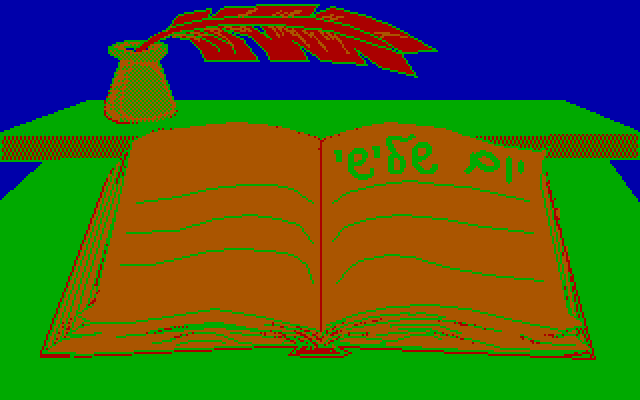
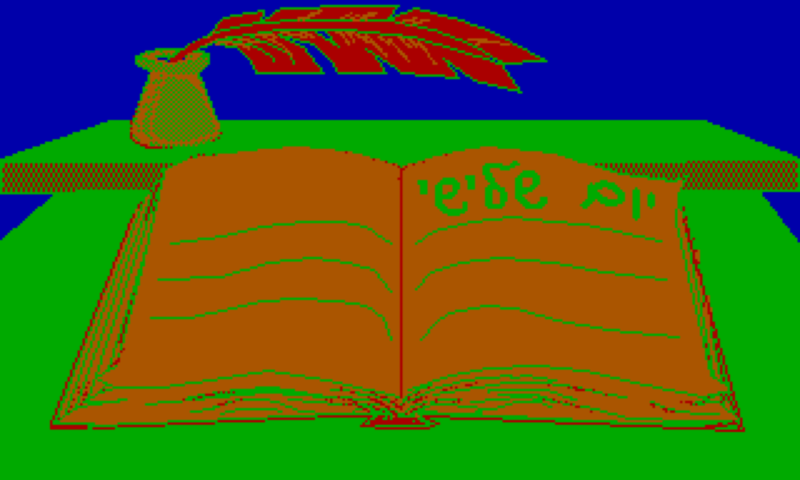
fixing the image sizes

diff --git a/SeaMerchantApp/src/com/example/seamerchant/SceneManager.java b/SeaMerchantApp/src/com/example/seamerchant/SceneManager.java
@@ -3,12 +3,15 @@ package com.example.seamerchant;
 import org.andengine.engine.Engine;
 import org.andengine.engine.handler.timer.ITimerCallback;
 import org.andengine.engine.handler.timer.TimerHandler;
+import org.andengine.entity.scene.IOnAreaTouchListener;
 import org.andengine.entity.scene.IOnSceneTouchListener;
+import org.andengine.entity.scene.ITouchArea;
 import org.andengine.entity.scene.Scene;
 import org.andengine.input.touch.TouchEvent;
 import org.andengine.input.touch.controller.BaseTouchController;
 import org.andengine.ui.activity.SimpleBaseGameActivity;
 
+import android.test.mock.MockApplication;
 import android.view.MotionEvent;
 
 import com.example.seamerchant.scene.Base;
@@ -122,6 +125,7 @@ public class SceneManager {
 		final Base op = new Options(mBaseActivity, mSideBanner, mLowerBanner);
 		op.loadResourcesAndScene();
 		mEngine.setScene(op.getScene());
+		
 	}
 
 	private void startWeatherScene() {
@@ -160,7 +164,7 @@ public class SceneManager {
 	}
 
 	private void startNewDayScene() {
-		final Base nd = new NewDay(mBaseActivity);
+		final Base nd = new NewDay(mBaseActivity,2);
 		nd.loadResourcesAndScene();
 		mEngine.setScene(nd.getScene());
 		Scene curr = nd.getScene();
@@ -233,4 +237,5 @@ public class SceneManager {
 	public void loadRecources() {
 		mWelcomeGameScene.loadResources();
 	}
+
 }

diff --git a/SeaMerchantApp/src/com/example/seamerchant/game/Player.java b/SeaMerchantApp/src/com/example/seamerchant/game/Player.java
@@ -5,9 +5,9 @@ public class Player {
 	private int location;
 	private int money;
 	private int guard;
-	private Item item1;
-	private Item item2;
-	private Item item3;
+	private Item wheat;
+	private Item olives;
+	private Item bronze;
 	public Player(int ship, int location) {
 		super();
 		this.ship = ship;
@@ -37,23 +37,23 @@ public class Player {
 	public void setGuard(int guard) {
 		this.guard = guard;
 	}
-	public Item getItem1() {
-		return item1;
+	public Item getWheat() {
+		return wheat;
 	}
 	public void setItem1(Item item1) {
-		this.item1 = item1;
+		this.wheat = item1;
 	}
 	public Item getItem2() {
-		return item2;
+		return olives;
 	}
 	public void setItem2(Item item2) {
-		this.item2 = item2;
+		this.olives = item2;
 	}
 	public Item getItem3() {
-		return item3;
+		return bronze;
 	}
 	public void setItem3(Item item3) {
-		this.item3 = item3;
+		this.bronze = item3;
 	}
 	
 	

diff --git a/SeaMerchantApp/src/com/example/seamerchant/scene/Options.java b/SeaMerchantApp/src/com/example/seamerchant/scene/Options.java
@@ -3,10 +3,13 @@ package com.example.seamerchant.scene;
 import java.io.IOException;
 import java.io.InputStream;
 
+import org.andengine.entity.scene.IOnAreaTouchListener;
+import org.andengine.entity.scene.ITouchArea;
 import org.andengine.entity.scene.Scene;
 import org.andengine.entity.sprite.ButtonSprite;
 import org.andengine.entity.sprite.ButtonSprite.OnClickListener;
 import org.andengine.entity.sprite.Sprite;
+import org.andengine.input.touch.TouchEvent;
 import org.andengine.opengl.texture.ITexture;
 import org.andengine.opengl.texture.TextureOptions;
 import org.andengine.opengl.texture.atlas.bitmap.BitmapTextureAtlas;

diff --git a/SeaMerchantApp/src/com/example/seamerchant/scene/Splash.java b/SeaMerchantApp/src/com/example/seamerchant/scene/Splash.java
@@ -20,7 +20,7 @@ abstract public class Splash extends Base {
 
 	protected TextureRegion mSplashTextureRegion;
 
-	abstract String getSplashFile();
+	abstract String getSplashFile(String param);
 	
 	@Override
 	protected Scene initScene()
@@ -39,7 +39,7 @@ abstract public class Splash extends Base {
 			ITexture backgroundTexture = new BitmapTexture(getTextureManager(), new IInputStreamOpener() {
 			    @Override
 			    public InputStream open() throws IOException {
-			        return getAssets().open(getSplashFile());
+			        return getAssets().open(getSplashFile(""));
 			    }
 			});
 			

diff --git a/SeaMerchantApp/src/com/example/seamerchant/scene/NewDay.java b/SeaMerchantApp/src/com/example/seamerchant/scene/NewDay.java
@@ -5,15 +5,15 @@ import org.andengine.ui.activity.SimpleBaseGameActivity;
 public class NewDay extends Splash {
 
 	private static final String FILE_PATTERN = "gfx/newday_%d.png";
-
-	public NewDay(SimpleBaseGameActivity baseActivity) {
+	private int daynumber;
+	public NewDay(SimpleBaseGameActivity baseActivity,int day) {
 		super(baseActivity);
-		// TODO Auto-generated constructor stub
+		daynumber = day;
 	}
 
 	@Override
-	String getSplashFile() {
-		return String.format(FILE_PATTERN, 1);
+	String getSplashFile(String param) {
+		return String.format(FILE_PATTERN, daynumber);
 	}
 
 }

diff --git a/SeaMerchantApp/src/com/example/seamerchant/scene/Weather.java b/SeaMerchantApp/src/com/example/seamerchant/scene/Weather.java
@@ -1,5 +1,7 @@
 package com.example.seamerchant.scene;
 
+import java.util.Calendar;
+
 import org.andengine.ui.activity.SimpleBaseGameActivity;
 
 public class Weather extends Splash {
@@ -17,7 +19,10 @@ public class Weather extends Splash {
 
 
 	@Override
-	String getSplashFile() {
+	String getSplashFile(String param) {
+		if(param == STORM){
+		return String.format(FILE_PATTERN, STORM);
+		}
 		return String.format(FILE_PATTERN, CALM);
 	}
 

diff --git a/SeaMerchantApp/src/com/example/seamerchant/game/Item.java b/SeaMerchantApp/src/com/example/seamerchant/game/Item.java
@@ -4,6 +4,9 @@ public class Item {
 
 	private int type;
 	private int price;
+	public static final int WHEAT = 1;
+	public static final int OLIVES = 2;
+	public static final int BRONZE = 3;
 	
 	public Item(int type, int price) {
 		super();

diff --git a/SeaMerchantApp/src/com/example/seamerchant/scene/GameStart.java b/SeaMerchantApp/src/com/example/seamerchant/scene/GameStart.java
@@ -11,7 +11,7 @@ public class GameStart extends Splash {
 	}
 
 	@Override
-	String getSplashFile() {
+	String getSplashFile(String param) {
 		return GFX_GAMESTART_PNG;
 	}
 

diff --git a/SeaMerchantApp/src/com/example/seamerchant/scene/Welcome.java b/SeaMerchantApp/src/com/example/seamerchant/scene/Welcome.java
@@ -10,7 +10,7 @@ public class Welcome extends Splash {
 	}
 
 	@Override
-	String getSplashFile() {
+	String getSplashFile(String param) {
 		return GFX_WELCOME_PNG;
 	}
 
